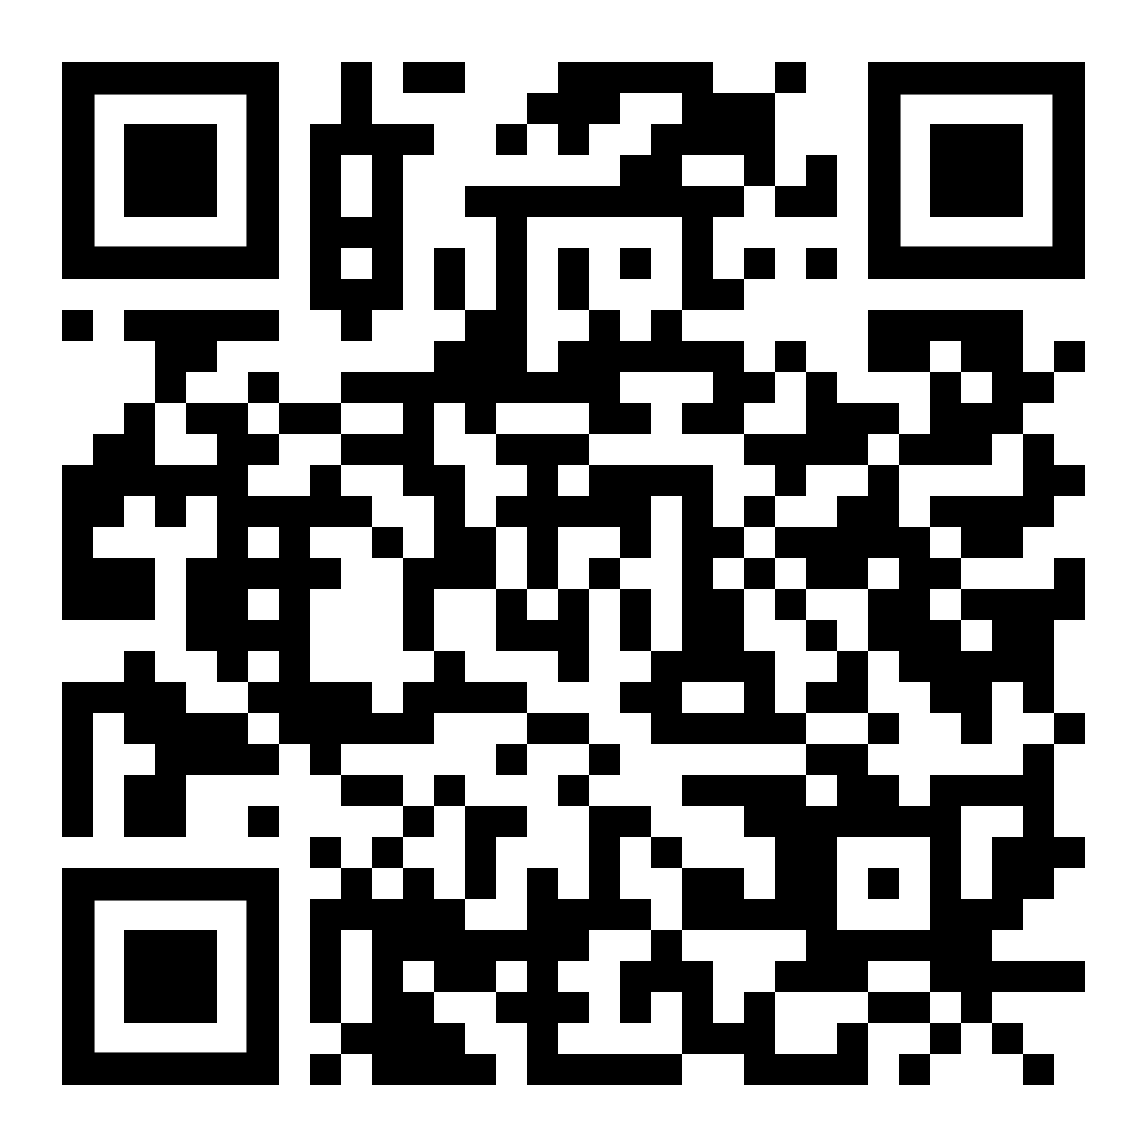
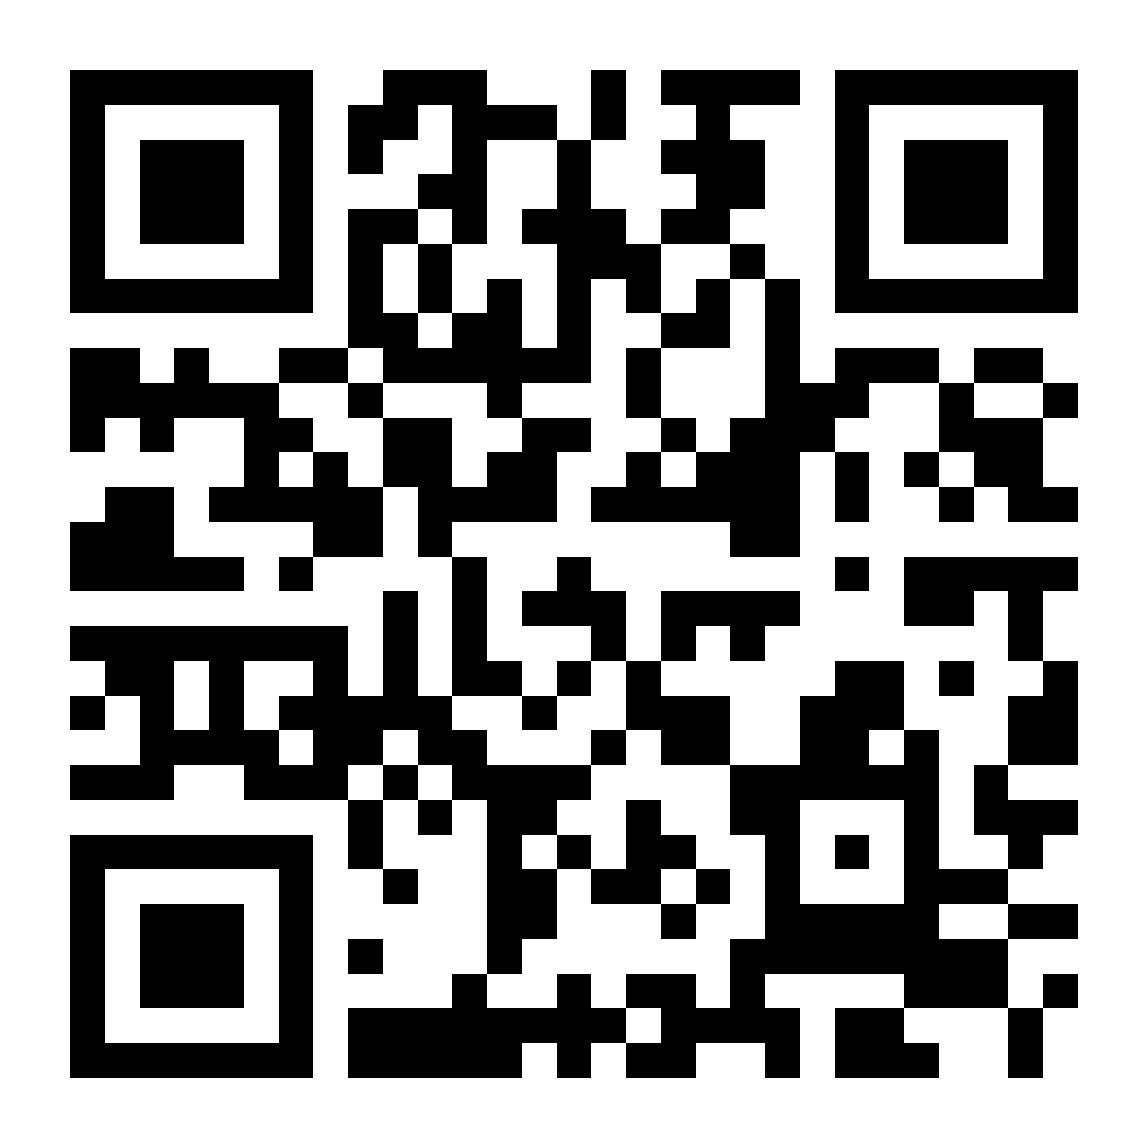
Update QR code and accept grayscale QR images
The new QR image is 8-bit grayscale, which smoothscale rejects.
Convert the image to the display format when it loads.

diff --git a/show/app.py b/show/app.py
@@ -66,7 +66,7 @@ class App:
         except Exception as e:  # the show still works with keys only
             print(f"[SHOW] Operator panel not available: {e}")
 
-        self.qr = pygame.image.load(str(config.QR_FILE)) if config.QR_FILE.exists() else None
+        self.qr = pygame.image.load(str(config.QR_FILE)).convert() if config.QR_FILE.exists() else None
         self.players = PlayerTracker()
         self.stats = {"faces_seen": set(), "invisible": 0}  # counts only, no face data
         self.board = Leaderboard()
